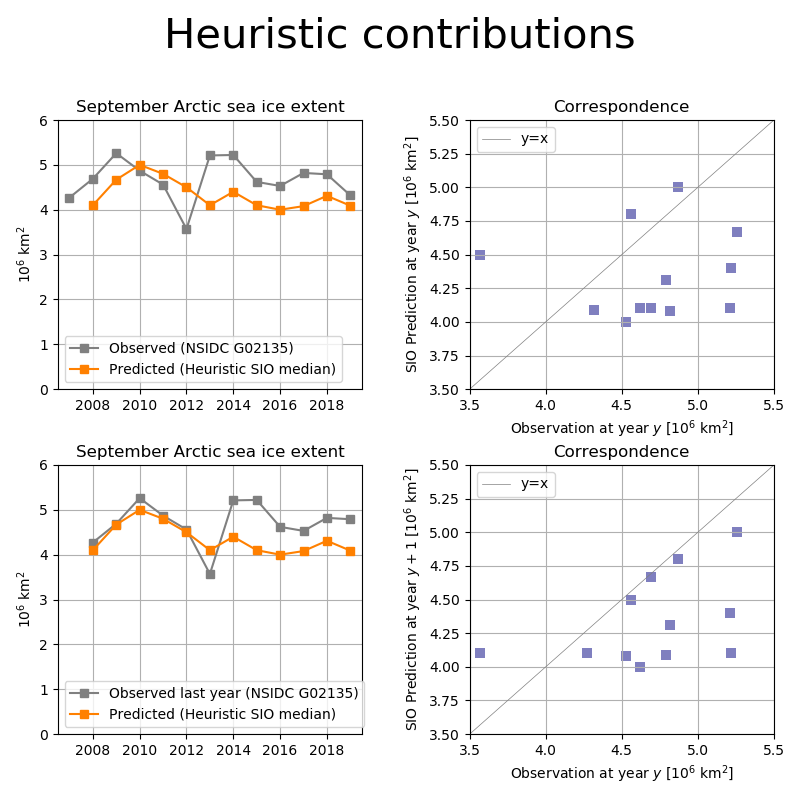
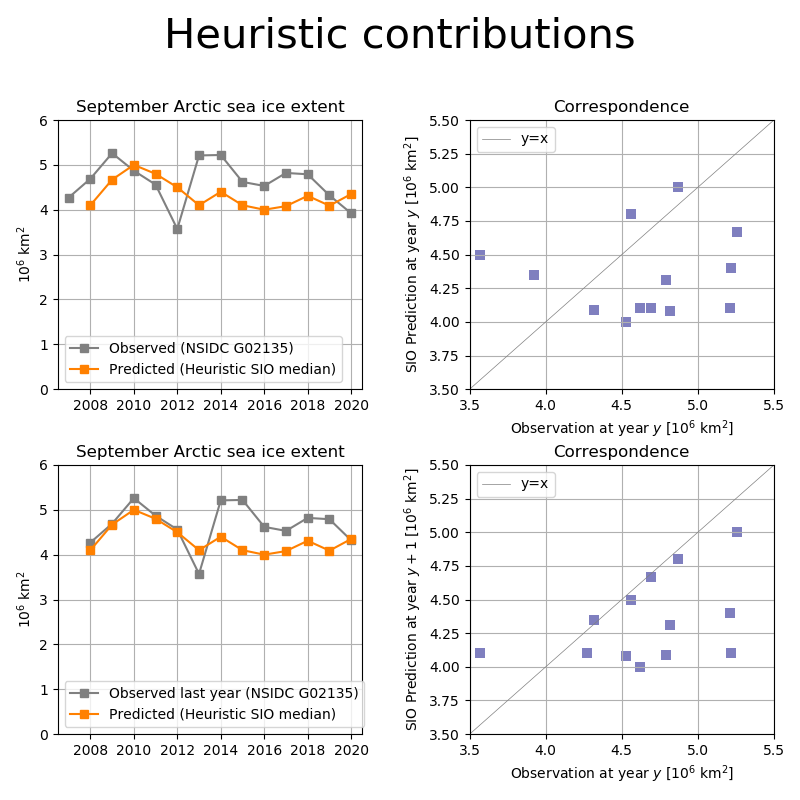
Commit from Dell

diff --git a/sio_predicting_predictions.py b/sio_predicting_predictions.py
@@ -21,7 +21,7 @@ import calendar
 
 # Add SIO data (June submissions)
 methname = ["All",  "Dynamical", "Statistical", "Heuristic", "Mixed"]
-method = 4
+method = 0
 
 #       Year   obs   [ALL,    DYN,    STAT,   HEUR,   MIX]
 data = [
@@ -38,7 +38,7 @@ data = [
         [2017, 4.82, [4.43,   4.39,   4.69,   4.08,   4.1   ]],
         [2018, 4.79, [4.6 ,   4.78,   4.41,   4.31,   5.04  ]],
         [2019, 4.32, [4.40,   4.56,   4.4 ,   4.09,   np.nan]], # Based on Betsy's Excel sheet
-        [2020, np.nan, [4.33, 4.405,  4.26,   4.35,   np.nan]]
+        [2020, 3.92, [4.33, 4.405,  4.26,   4.35,   np.nan  ]],
        ]
 
 years = [d[0] for d in data]
@@ -124,6 +124,9 @@ xtil = x - xbar
 ytil = y - ybar
 
 ax.scatter(x, y, 50, marker = "s", color = "k", alpha = 0.5)
+for j in np.arange(len(x)):
+    ax.text(x[j], y[j], str(years[j])[:], color = "white", ha = "center", va = "center", fontsize = 3)
+    
 ax.plot((xnew, xnew), (-1e9, 1e9), color = "green", label = str(years[-1]))
 ax.set_xlabel("Observation at year $y$ [10$^6$ km$^2$]")
 ax.set_ylabel(methname[method] + " SIO Prediction at year $y + 1$ [10$^6$ km$^2$]")
@@ -157,7 +160,7 @@ ax.legend()
 ynew = ahat * xnew + bhat
 snew = np.sqrt(se2 * (1 + 1 / n + (xnew - xbar) ** 2 / np.sum(xtil ** 2)))
 
-ax.set_title("Prediction of 2020 " + methname[method] + " SIO median:\n" + str(np.round(ynew, 2)) + " +/- " \
+ax.set_title("Prediction of " + str(years[-1] + 1) + " June SIO median (" + methname[method].lower() + "):\n" + str(np.round(ynew, 2)) + " +/- " \
              + str(np.round(zs[-1] * snew, 2)) + " million km²")
 plt.tight_layout()
 plt.savefig("fig2_" + methname[method] + ".png")

diff --git a/understanding.py b/understanding.py
@@ -8,7 +8,7 @@ Created on Wed Jun 24 16:10:16 2020
 import numpy as np
 import matplotlib.pyplot as plt
 
-np.random.seed(0)
+#np.random.seed(0)
 # Understanding the origin of correlation between previous year observed
 # and next year observed extent
 
@@ -69,8 +69,8 @@ for jMC in range(nMC):
 
     
     
-fig, ax = plt.subplots(1, 1, dpi = 150)
-ax.set_title("Distriution of " + str(nMC) + " lag-1 correlations between artificial observations\n \
+fig, ax = plt.subplots(1, 1, dpi = 50)
+ax.set_title("Distribution of " + str(nMC) + " lag-1 correlations between artificial observations\n \
              at year $y$ and statistical prediction (extrapolation) at year $y+1$,\n \
              for $y$ ranging from " + str(yearbo) + " to " + str(yeareo - 1))
 h = ax.hist(correlations, bins = np.arange(-1, 1, 0.1), color = "black", \
@@ -81,5 +81,28 @@ ax.set_ylabel("Count")
 ax.set_xlabel("Sample Pearson correlation")
 ax.set_ylim(0.0, 1.05 * np.max(h[0]))
 ax.set_axisbelow(True)
+fig.tight_layout()
 fig.savefig("./fig.png")
 fig.show()
+
+
+
+x = list()
+y = list()
+for jMC in range(nMC):
+    tmp = np.random.randn(N)
+    x.append(tmp[-1])
+    y.append(np.polyval(np.polyfit(np.arange(1, N + 1), tmp, 1), N + 1))
+
+
+print(np.corrcoef(x, y)[0, 1])
+
+t = np.arange(1, N + 1); 
+tnp1t = N + 1 - np.mean(t); 
+k = N; 
+tkt = k - np.mean(t); 
+sti2 = np.sum((t - np.mean(t)) ** 2); 
+tnp1t = N + 1 - np.mean(t); 
+tnp1t2 = tnp1t ** 2; 
+r = (tnp1t * tkt / sti2 + 1 / N) / (tnp1t2 / sti2 + 1 / N) ** 0.5
+print(r)
